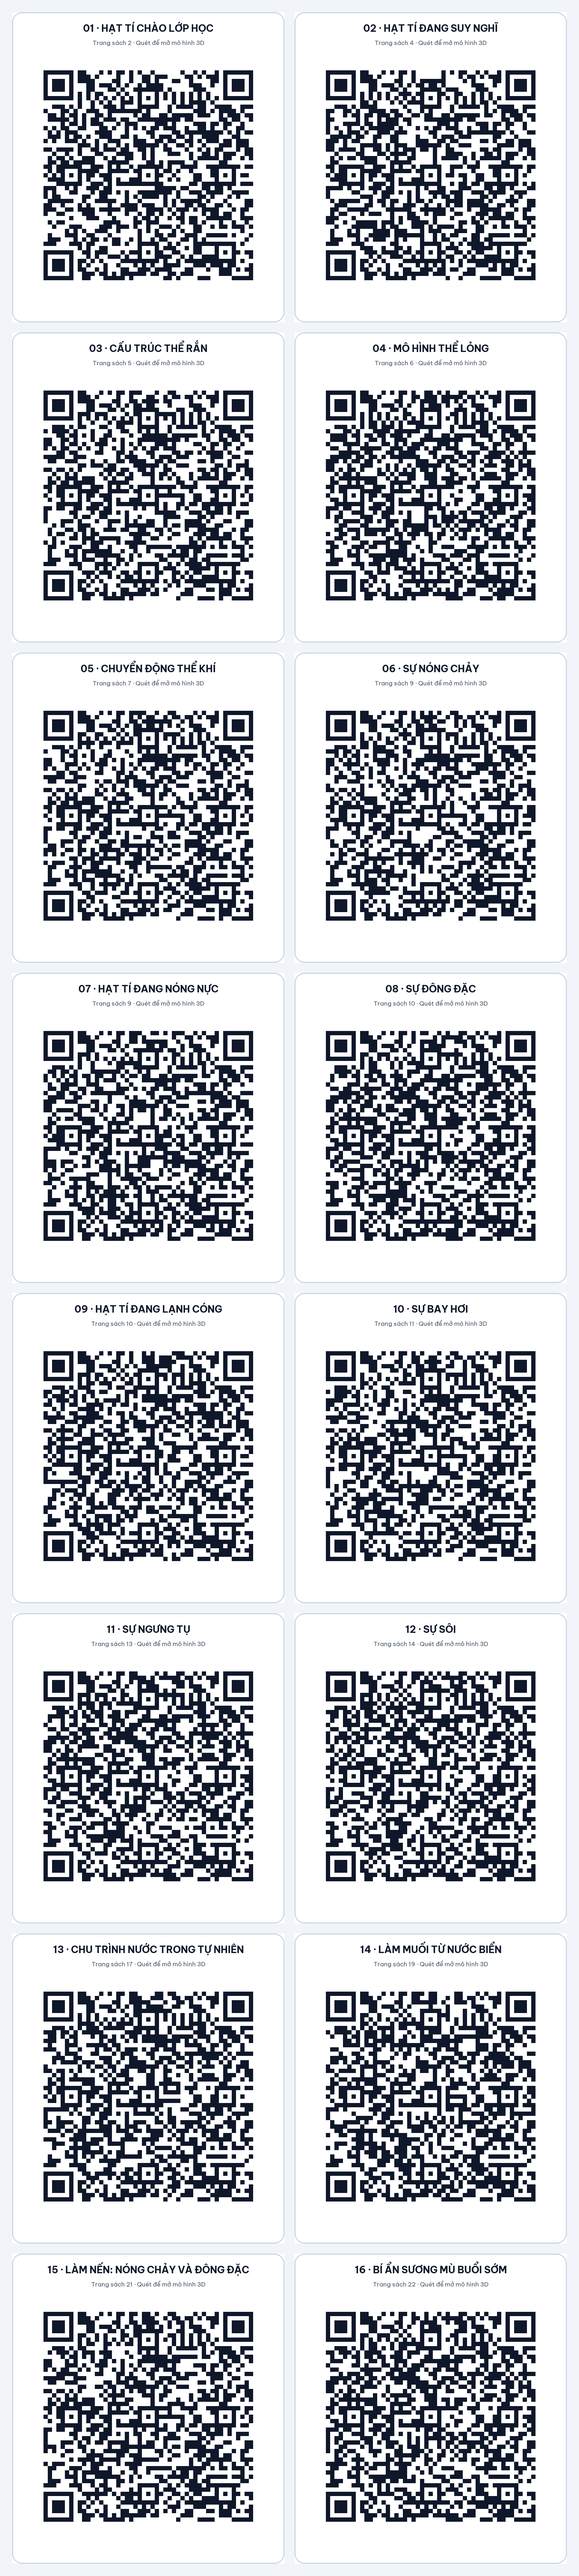
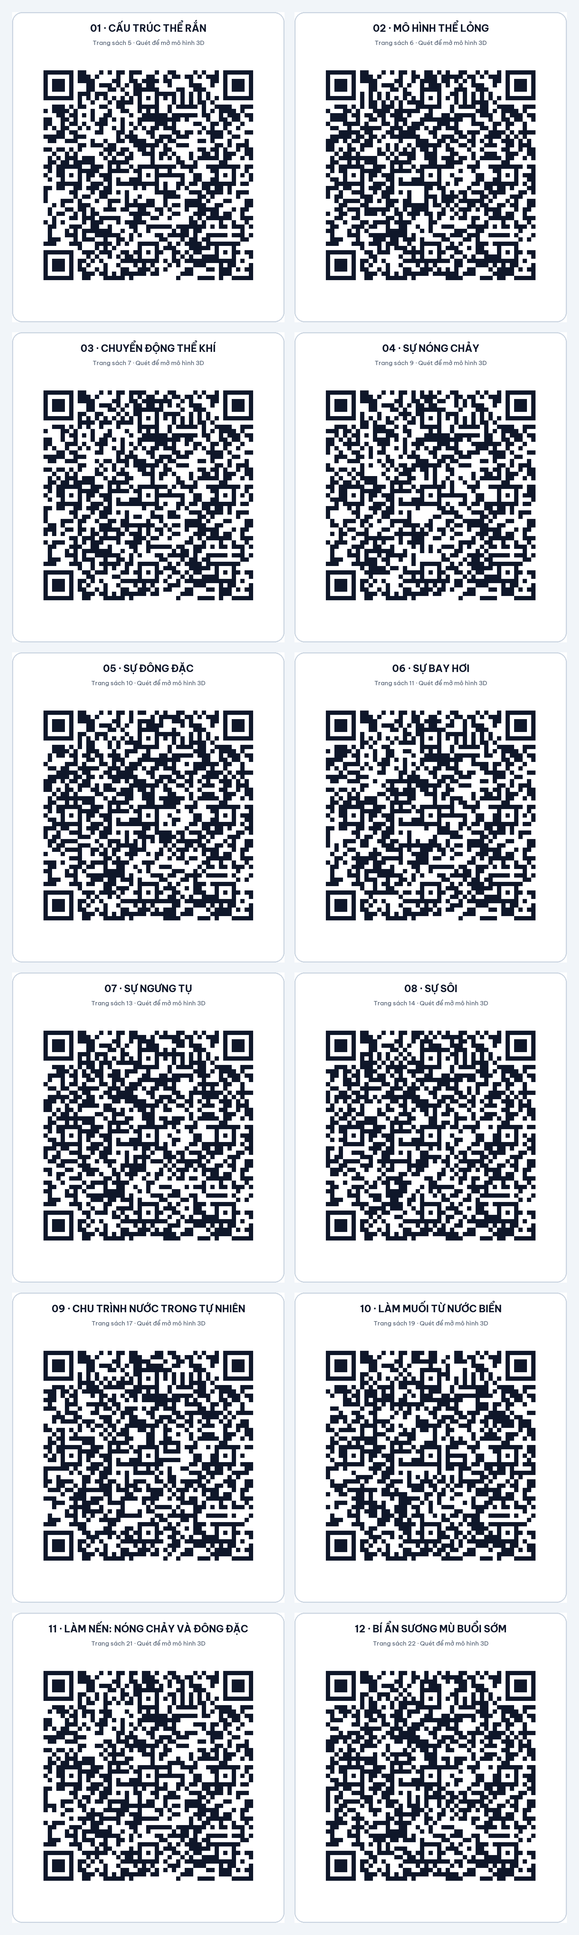
Embed Hạt Tí models directly in book pages

diff --git a/css/detective-book.css b/css/detective-book.css
@@ -7,7 +7,7 @@ body{background:radial-gradient(ellipse at 50% 28%,#456f8e,#152d40 72%)}
 .sheet-header{border-bottom-color:#b7d6e3;color:#437083;background:#f5fbfd;font-size:7px;letter-spacing:1px}.sheet-footer{border-top-color:#b7d6e3;color:#5c7b89;background:#f5fbfd}.sheet-footer strong{color:#236b98}
 .sheet-body h2.book-page-title{color:#165f8f;border-bottom:0;font-size:19px;margin-bottom:11px;padding-bottom:7px;position:relative}.sheet-body h2.book-page-title::after{content:"";display:block;width:46px;height:3px;border-radius:99px;background:#f2a449;margin-top:8px}
 .sheet-body{display:flex;flex-direction:column}.sheet-body>.book-media{margin-top:auto;align-self:flex-end}
-.hat-ti{position:absolute;z-index:3;display:flex;align-items:flex-end;gap:5px;max-width:220px;pointer-events:none}.hat-ti>span{display:grid;place-items:center;width:39px;height:39px;flex:0 0 39px;border:2px solid #fff;border-radius:50%;background:#f5c866;box-shadow:0 2px 0 #c88536;font-size:23px}.hat-ti p{margin:0!important;padding:6px 8px;border:1px solid #6aa6c4;border-radius:9px;background:#fffef8;color:#2e5b70;font-size:8px!important;font-style:italic;line-height:1.45!important;box-shadow:0 2px 7px #3a71821a}.hat-ti.bottom-left{left:10px;bottom:8px}.hat-ti.bottom-right{right:9px;bottom:8px;flex-direction:row-reverse}.hat-ti.center-right{right:10px;top:43%;flex-direction:row-reverse}.hat-ti.inline{position:relative;inset:auto;align-self:center;margin:7px auto 0;max-width:286px}.sheet-body:has(.hat-ti.bottom-left) .book-page-content,.sheet-body:has(.hat-ti.bottom-right) .book-page-content{padding-bottom:42px}.reading-pages .hat-ti>span{width:55px;height:55px;flex-basis:55px;font-size:32px}.reading-pages .hat-ti p{font-size:11px!important;padding:8px 10px}.reading-pages .hat-ti{max-width:310px}.reading-pages .hat-ti.bottom-left,.reading-pages .hat-ti.bottom-right{bottom:12px}
+.hat-ti{position:absolute;z-index:3;display:flex;align-items:flex-end;gap:5px;max-width:220px;pointer-events:none}.hat-ti-avatar{display:grid;place-items:center;width:39px;height:39px;flex:0 0 39px;border:2px solid #fff;border-radius:50%;background:#f5c866;box-shadow:0 2px 0 #c88536;font-size:23px;overflow:hidden}.hat-ti.has-model .hat-ti-avatar{width:61px;height:61px;flex-basis:61px;background:linear-gradient(145deg,#e4f7fb,#fffdf5);border-color:#6aa6c4}.hat-ti-avatar model-viewer{display:block;width:100%;height:100%;background:transparent;--poster-color:transparent}.hat-ti p{margin:0!important;padding:6px 8px;border:1px solid #6aa6c4;border-radius:9px;background:#fffef8;color:#2e5b70;font-size:8px!important;font-style:italic;line-height:1.45!important;box-shadow:0 2px 7px #3a71821a}.hat-ti.bottom-left{left:10px;bottom:8px}.hat-ti.bottom-right{right:9px;bottom:8px;flex-direction:row-reverse}.hat-ti.center-right{right:10px;top:43%;flex-direction:row-reverse}.hat-ti.inline{position:relative;inset:auto;align-self:center;margin:7px auto 0;max-width:286px}.sheet-body:has(.hat-ti.bottom-left) .book-page-content,.sheet-body:has(.hat-ti.bottom-right) .book-page-content{padding-bottom:42px}.reading-pages .hat-ti-avatar{width:55px;height:55px;flex-basis:55px;font-size:32px}.reading-pages .hat-ti.has-model .hat-ti-avatar{width:82px;height:82px;flex-basis:82px}.reading-pages .hat-ti p{font-size:11px!important;padding:8px 10px}.reading-pages .hat-ti{max-width:310px}.reading-pages .hat-ti.bottom-left,.reading-pages .hat-ti.bottom-right{bottom:12px}
 .detective-cover{background:linear-gradient(142deg,#1a719c,#145777 54%,#163d62);position:relative;overflow:hidden}.detective-cover::before,.detective-cover::after{content:"✦";position:absolute;font-size:70px;color:#fff;opacity:.12}.detective-cover::before{top:14px;left:22px}.detective-cover::after{bottom:20px;right:26px}.cover-kicker{font-size:9px;letter-spacing:2px;color:#d9f3ff;font-weight:700}.cover-title{color:#3187bf!important;-webkit-text-stroke:.7px #fff;text-shadow:0 2px 0 #0e466c;transform:rotate(-2deg)}.cover-copy{font-size:12px;color:#e8f8ff;line-height:1.8;max-width:260px;margin:16px auto}.cover-foot{font-size:8px;letter-spacing:1.4px;color:#d9f3ff}.cover-orbit{font-size:36px;color:#ffe8a9;line-height:1}.cover-magnifier{font-family:Georgia,serif;font-size:80px;line-height:.7;color:#ffe8a9;transform:rotate(-20deg);margin-top:22px}.cover-mascot{position:relative;width:88px;height:70px;margin:15px auto 0;font-size:58px;line-height:1;filter:drop-shadow(0 4px 4px #00182f80)}.cover-mascot span{position:absolute;right:-10px;bottom:-6px;font-family:Georgia,serif;font-size:42px;color:#ffe8a9;transform:rotate(-22deg)}
 .detective-lead{display:flex;gap:11px;align-items:center;padding:11px 13px;border:1px dashed #75b1cb;border-radius:12px;background:#f2fbff;color:#25556b}.detective-lead span{font-size:24px}.detective-lead p{font-size:11px;margin:0;line-height:1.65}.goal-list{margin-top:13px;padding:12px 14px;background:#fff7dc;border-left:4px solid #eab44e}.goal-list h3{font-size:12px;margin:0 0 6px;color:#8c5819}.goal-list ul{padding-left:17px;margin:0}.goal-list li{font-size:10px;margin:4px 0;line-height:1.6}.mascot-note{margin:12px 0 0;padding:8px 11px;border-radius:10px;background:#eaf6fc;color:#306a8a;font-size:10px!important;font-style:italic;line-height:1.65!important}.soft-note{font-size:10px!important;color:#4b7484;background:#f3f9f2;padding:9px 11px;border-radius:10px;border:1px solid #d2e5cf;margin:12px 0 0}
 .process-steps{display:grid;grid-template-columns:1fr 1fr;gap:8px}.process-steps>div{display:flex;gap:8px;padding:10px;background:#f4fafd;border:1px solid #d0e4ef;border-radius:10px}.process-steps b{font-size:10px;color:#1f7ba7;white-space:nowrap}.process-steps span{font-size:10px;line-height:1.55;color:#355365}

diff --git a/js/book.js b/js/book.js
@@ -5,12 +5,12 @@ let requestedPage=Number(new URL(location.href).searchParams.get('page') || 1)-1
 const mediaAt=number=>config.scenes.filter(s=>s.bookPage===number);
 const pageTitle=(page,index)=>page.title || (index===0?'Bìa sách':'Bìa sau');
 const mascots={
-  2:['👋','bottom-left','Chào cậu! Tớ là Hạt Tí, thám tử hạt. Khóa huấn luyện bắt đầu rồi, cậu cùng tớ đi phá các vụ án nhé!'],
+  2:['👋','bottom-left','Chào cậu! Tớ là Hạt Tí, thám tử hạt. Khóa huấn luyện bắt đầu rồi, cậu cùng tớ đi phá các vụ án nhé!','assets/models/hat-ti-binh-thuong.glb'],
   3:['📱','bottom-right','Cậu hãy dùng điện thoại làm “Kính lúp ma thuật” để giúp tớ nhìn xuyên thấu vật chất nhé!'],
-  4:['🕵','inline','Lạ thật! Hai thứ này đều là nước, vậy cấu trúc hạt bên trong khác nhau ở đâu nhỉ? Cậu thử dự đoán cùng tớ xem!'],
+  4:['🕵','inline','Lạ thật! Hai thứ này đều là nước, vậy cấu trúc hạt bên trong khác nhau ở đâu nhỉ? Cậu thử dự đoán cùng tớ xem!','assets/models/hat-ti-suy-nghi.glb'],
   8:['🔎','bottom-right','Tuyệt vời! Vụ án số 1: Tớ và cậu đã phá xong!'],
-  9:['🧢','bottom-left','Nóng quá cậu ơi, tớ sắp tan ra thành nước luôn rồi!'],
-  10:['🧣','bottom-left','Lạnh cóng! Tớ thấy các hạt đang phải xếp sát lại để sưởi ấm cho nhau kìa cậu!'],
+  9:['🧢','bottom-left','Nóng quá cậu ơi, tớ sắp tan ra thành nước luôn rồi!','assets/models/hat-ti-nong-nuc.glb'],
+  10:['🧣','bottom-left','Lạnh cóng! Tớ thấy các hạt đang phải xếp sát lại để sưởi ấm cho nhau kìa cậu!','assets/models/hat-ti-lanh-cong.glb'],
   12:['🔍','bottom-right','Cậu ơi, hay là nước đã ngấm xuyên qua lớp thủy tinh dày để chảy ra ngoài nhỉ... cậu nghĩ tớ đoán thế có đúng không?'],
   15:['🤔','bottom-left','Đều là chuyển từ thể lỏng sang thể khí, nhưng cậu thấy hai quá trình này khác nhau ở đâu? Phơi quần áo hằng ngày là bay hơi hay sôi?'],
   18:['🤫','bottom-left','Nếu bí quá, cậu cứ lật lại trang 11 và 13 để xem gợi ý của tớ nhé, đừng ngại!'],
@@ -45,7 +45,7 @@ function makePage(page,index){
     const content=document.createElement('div');content.className='book-page-content';content.innerHTML=page.content;
     body.append(title,content);for(const scene of mediaAt(index+1))body.append(mediaBox(scene));
     const mascot=mascots[index+1];
-    if(mascot){const figure=document.createElement('aside');figure.className=`hat-ti ${mascot[1]}`;figure.setAttribute('aria-label','Lời thoại của Hạt Tí');figure.innerHTML=`<span aria-hidden="true">${mascot[0]}</span><p>${mascot[2]}</p>`;body.append(figure);}
+    if(mascot){const figure=document.createElement('aside');figure.className=`hat-ti ${mascot[1]}${mascot[3]?' has-model':''}`;figure.setAttribute('aria-label','Lời thoại của Hạt Tí');const avatar=document.createElement('span');avatar.className='hat-ti-avatar';avatar.setAttribute('aria-hidden','true');if(mascot[3]&&window.customElements?.get('model-viewer')){const model=document.createElement('model-viewer');model.src=assetURL(mascot[3]);model.setAttribute('animation-name','TatCaCacHat');model.setAttribute('autoplay','');model.setAttribute('auto-rotate','');model.setAttribute('interaction-prompt','none');model.setAttribute('loading','eager');avatar.append(model);}else avatar.textContent=mascot[0];const speech=document.createElement('p');speech.textContent=mascot[2];figure.append(avatar,speech);body.append(figure);}
     const footer=document.createElement('div');footer.className='sheet-footer';
     const name=document.createElement('span');name.textContent='THẾ GIỚI HẠT · KHTN 6';const n=document.createElement('strong');n.textContent=String(index+1);footer.append(name,n);
     const layout=document.createElement('div');layout.className='sheet-layout';layout.append(header,body,footer);sheet.append(layout);
@@ -92,6 +92,7 @@ window.checkQuiz=(button,correct)=>{
 };
 
 try{
+  try{await import(assetURL('vendor/model-viewer-4.4.0.min.js'));await customElements.whenDefined('model-viewer');}catch{ /* Emoji fallback remains available if the 3D component cannot load. */ }
   config=await loadConfig();const response=await fetch(assetURL('data/book.json'),{cache:'no-store'});
   if(!response.ok)throw new Error('Không đọc được nội dung data/book.json.');
   book=await response.json();if(!Array.isArray(book.pages)||!book.pages.length)throw new Error('Nội dung sách chưa hợp lệ.');

diff --git a/index.html b/index.html
@@ -3,8 +3,8 @@
 <meta charset="utf-8"><meta name="viewport" content="width=device-width,initial-scale=1"><meta name="theme-color" content="#162536">
 <meta name="description" content="Sách khoa học tương tác về các thể của chất và sự chuyển thể, có mô hình 3D theo từng bài.">
 <title>Thế giới hạt · Sách khoa học tương tác</title><link rel="icon" href="assets/icon.svg" type="image/svg+xml">
-<link rel="stylesheet" href="css/book-utilities.css"><link rel="stylesheet" href="css/fonts.css?v=2"><link rel="stylesheet" href="css/book.css?v=2"><link rel="stylesheet" href="css/detective-book.css?v=2">
-<script defer src="vendor/page-flip-2.0.7.js"></script><script type="module" src="js/book.js?v=2"></script>
+<link rel="stylesheet" href="css/book-utilities.css"><link rel="stylesheet" href="css/fonts.css?v=2"><link rel="stylesheet" href="css/book.css?v=2"><link rel="stylesheet" href="css/detective-book.css?v=3">
+<script defer src="vendor/page-flip-2.0.7.js"></script><script type="module" src="js/book.js?v=3"></script>
 </head><body>
 <header class="book-toolbar"><a href="index.html" class="book-brand"><span class="book-logo" aria-hidden="true">h.</span><span>THẾ GIỚI HẠT<small>SÁCH KHOA HỌC TƯƠNG TÁC</small></span></a><nav aria-label="Điều hướng website"><a href="models.html">Các mô hình 3D ↗</a><a href="qr.html">Tạo / tải QR</a></nav></header>
 <main>

diff --git a/sach.html b/sach.html
@@ -3,8 +3,8 @@
 <meta charset="utf-8"><meta name="viewport" content="width=device-width,initial-scale=1"><meta name="theme-color" content="#162536">
 <meta name="description" content="Sách khoa học tương tác về các thể của chất và sự chuyển thể, có mô hình 3D theo từng bài.">
 <title>Thế giới hạt · Sách khoa học tương tác</title><link rel="icon" href="assets/icon.svg" type="image/svg+xml">
-<link rel="stylesheet" href="css/book-utilities.css"><link rel="stylesheet" href="css/fonts.css?v=2"><link rel="stylesheet" href="css/book.css?v=2"><link rel="stylesheet" href="css/detective-book.css?v=2">
-<script defer src="vendor/page-flip-2.0.7.js"></script><script type="module" src="js/book.js?v=2"></script>
+<link rel="stylesheet" href="css/book-utilities.css"><link rel="stylesheet" href="css/fonts.css?v=2"><link rel="stylesheet" href="css/book.css?v=2"><link rel="stylesheet" href="css/detective-book.css?v=3">
+<script defer src="vendor/page-flip-2.0.7.js"></script><script type="module" src="js/book.js?v=3"></script>
 </head><body>
 <header class="book-toolbar"><a href="index.html" class="book-brand"><span class="book-logo" aria-hidden="true">h.</span><span>THẾ GIỚI HẠT<small>SÁCH KHOA HỌC TƯƠNG TÁC</small></span></a><nav aria-label="Điều hướng website"><a href="models.html">Các mô hình 3D ↗</a><a href="qr.html">Tạo / tải QR</a></nav></header>
 <main>

diff --git a/tools/export_qr_codes.py b/tools/export_qr_codes.py
@@ -9,15 +9,11 @@ SITE = Path(__file__).resolve().parents[1]
 OUTPUT = SITE / "qr-codes"
 BASE_URL = "https://daonhattan2503-cmyk.github.io/sachar/"
 MODELS = [
-    ("hat-ti-binh-thuong", "HẠT TÍ CHÀO LỚP HỌC", 2),
-    ("hat-ti-suy-nghi", "HẠT TÍ ĐANG SUY NGHĨ", 4),
     ("the-ran", "CẤU TRÚC THỂ RẮN", 5),
     ("the-long", "MÔ HÌNH THỂ LỎNG", 6),
     ("the-khi", "CHUYỂN ĐỘNG THỂ KHÍ", 7),
     ("nong-chay", "SỰ NÓNG CHẢY", 9),
-    ("hat-ti-nong-nuc", "HẠT TÍ ĐANG NÓNG NỰC", 9),
     ("dong-dac", "SỰ ĐÔNG ĐẶC", 10),
-    ("hat-ti-lanh-cong", "HẠT TÍ ĐANG LẠNH CÓNG", 10),
     ("bay-hoi", "SỰ BAY HƠI", 11),
     ("ngung-tu", "SỰ NGƯNG TỤ", 13),
     ("su-soi", "SỰ SÔI", 14),

diff --git a/qr-codes/README.md b/qr-codes/README.md
@@ -2,19 +2,15 @@
 
 Địa chỉ gốc: https://daonhattan2503-cmyk.github.io/sachar/
 
-- `01-hat-ti-binh-thuong.png` — trang 2: HẠT TÍ CHÀO LỚP HỌC; https://daonhattan2503-cmyk.github.io/sachar/viewer.html?id=hat-ti-binh-thuong
-- `02-hat-ti-suy-nghi.png` — trang 4: HẠT TÍ ĐANG SUY NGHĨ; https://daonhattan2503-cmyk.github.io/sachar/viewer.html?id=hat-ti-suy-nghi
-- `03-the-ran.png` — trang 5: CẤU TRÚC THỂ RẮN; https://daonhattan2503-cmyk.github.io/sachar/viewer.html?id=the-ran
-- `04-the-long.png` — trang 6: MÔ HÌNH THỂ LỎNG; https://daonhattan2503-cmyk.github.io/sachar/viewer.html?id=the-long
-- `05-the-khi.png` — trang 7: CHUYỂN ĐỘNG THỂ KHÍ; https://daonhattan2503-cmyk.github.io/sachar/viewer.html?id=the-khi
-- `06-nong-chay.png` — trang 9: SỰ NÓNG CHẢY; https://daonhattan2503-cmyk.github.io/sachar/viewer.html?id=nong-chay
-- `07-hat-ti-nong-nuc.png` — trang 9: HẠT TÍ ĐANG NÓNG NỰC; https://daonhattan2503-cmyk.github.io/sachar/viewer.html?id=hat-ti-nong-nuc
-- `08-dong-dac.png` — trang 10: SỰ ĐÔNG ĐẶC; https://daonhattan2503-cmyk.github.io/sachar/viewer.html?id=dong-dac
-- `09-hat-ti-lanh-cong.png` — trang 10: HẠT TÍ ĐANG LẠNH CÓNG; https://daonhattan2503-cmyk.github.io/sachar/viewer.html?id=hat-ti-lanh-cong
-- `10-bay-hoi.png` — trang 11: SỰ BAY HƠI; https://daonhattan2503-cmyk.github.io/sachar/viewer.html?id=bay-hoi
-- `11-ngung-tu.png` — trang 13: SỰ NGƯNG TỤ; https://daonhattan2503-cmyk.github.io/sachar/viewer.html?id=ngung-tu
-- `12-su-soi.png` — trang 14: SỰ SÔI; https://daonhattan2503-cmyk.github.io/sachar/viewer.html?id=su-soi
-- `13-chu-trinh-nuoc.png` — trang 17: CHU TRÌNH NƯỚC TRONG TỰ NHIÊN; https://daonhattan2503-cmyk.github.io/sachar/viewer.html?id=chu-trinh-nuoc
-- `14-lam-muoi-tu-nuoc-bien.png` — trang 19: LÀM MUỐI TỪ NƯỚC BIỂN; https://daonhattan2503-cmyk.github.io/sachar/viewer.html?id=lam-muoi-tu-nuoc-bien
-- `15-lam-nen.png` — trang 21: LÀM NẾN: NÓNG CHẢY VÀ ĐÔNG ĐẶC; https://daonhattan2503-cmyk.github.io/sachar/viewer.html?id=lam-nen
-- `16-suong-mu.png` — trang 22: BÍ ẨN SƯƠNG MÙ BUỔI SỚM; https://daonhattan2503-cmyk.github.io/sachar/viewer.html?id=suong-mu
+- `01-the-ran.png` — trang 5: CẤU TRÚC THỂ RẮN; https://daonhattan2503-cmyk.github.io/sachar/viewer.html?id=the-ran
+- `02-the-long.png` — trang 6: MÔ HÌNH THỂ LỎNG; https://daonhattan2503-cmyk.github.io/sachar/viewer.html?id=the-long
+- `03-the-khi.png` — trang 7: CHUYỂN ĐỘNG THỂ KHÍ; https://daonhattan2503-cmyk.github.io/sachar/viewer.html?id=the-khi
+- `04-nong-chay.png` — trang 9: SỰ NÓNG CHẢY; https://daonhattan2503-cmyk.github.io/sachar/viewer.html?id=nong-chay
+- `05-dong-dac.png` — trang 10: SỰ ĐÔNG ĐẶC; https://daonhattan2503-cmyk.github.io/sachar/viewer.html?id=dong-dac
+- `06-bay-hoi.png` — trang 11: SỰ BAY HƠI; https://daonhattan2503-cmyk.github.io/sachar/viewer.html?id=bay-hoi
+- `07-ngung-tu.png` — trang 13: SỰ NGƯNG TỤ; https://daonhattan2503-cmyk.github.io/sachar/viewer.html?id=ngung-tu
+- `08-su-soi.png` — trang 14: SỰ SÔI; https://daonhattan2503-cmyk.github.io/sachar/viewer.html?id=su-soi
+- `09-chu-trinh-nuoc.png` — trang 17: CHU TRÌNH NƯỚC TRONG TỰ NHIÊN; https://daonhattan2503-cmyk.github.io/sachar/viewer.html?id=chu-trinh-nuoc
+- `10-lam-muoi-tu-nuoc-bien.png` — trang 19: LÀM MUỐI TỪ NƯỚC BIỂN; https://daonhattan2503-cmyk.github.io/sachar/viewer.html?id=lam-muoi-tu-nuoc-bien
+- `11-lam-nen.png` — trang 21: LÀM NẾN: NÓNG CHẢY VÀ ĐÔNG ĐẶC; https://daonhattan2503-cmyk.github.io/sachar/viewer.html?id=lam-nen
+- `12-suong-mu.png` — trang 22: BÍ ẨN SƯƠNG MÙ BUỔI SỚM; https://daonhattan2503-cmyk.github.io/sachar/viewer.html?id=suong-mu
